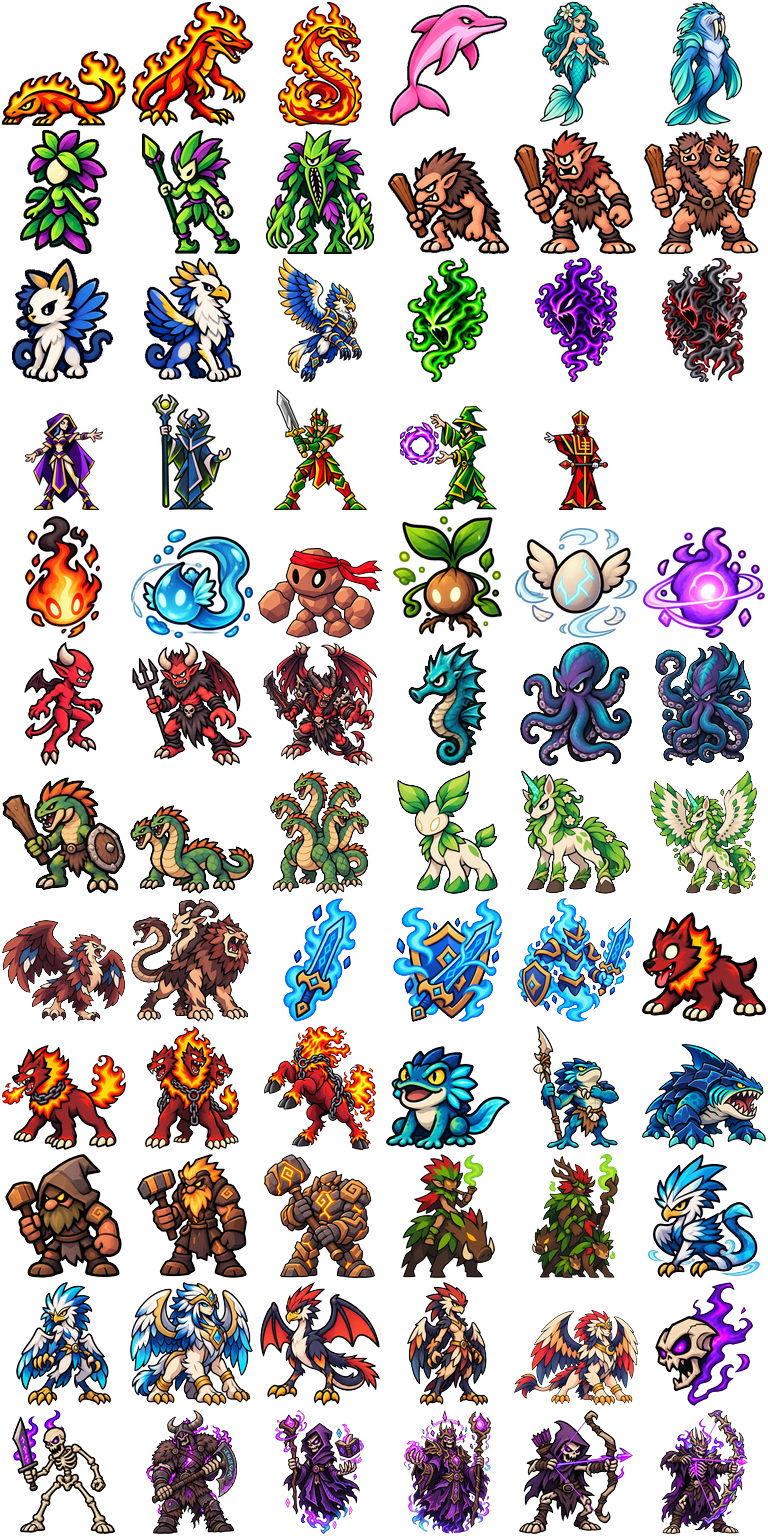
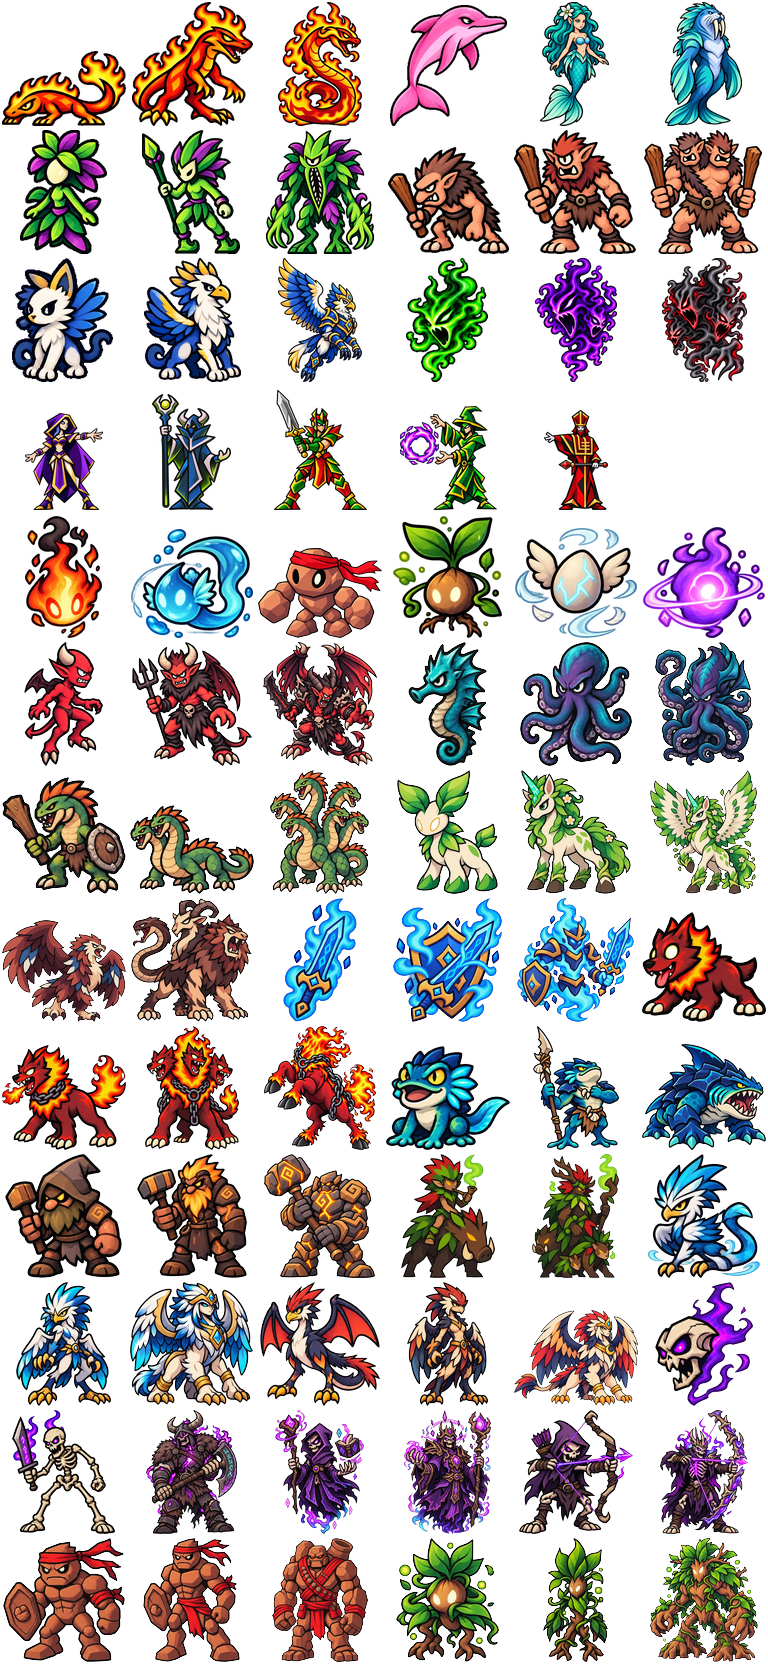
v1.47: novas linhas Argila → Barruco → Terracoto → Golem de Argila e Semente → Mandrago → Sentinela → Trent

diff --git a/index.html b/index.html
@@ -683,8 +683,8 @@ html:not(.paisagem) #rodape .alaD{grid-area:1/3;justify-content:flex-start}
         <li><b>Brasa:</b> evolui no Dia → Salamandra; à Noite → Diabrete; na Manhã ou no Entardecer → Filhote Infernal.</li>
         <li><b>Cão Infernal</b> (estágio 2 do Filhote Infernal): turno em que ataca sem sair do lugar (ou andando só 1 casa) conta para o Cerberus; turno em que galopa 3 ou mais casas conta para a Mula sem Cabeça.</li>
         <li><b>Girino:</b> terminou 3 ou mais turnos em terra firme (fora de construções), e mais em terra do que na água → Sapinho; senão, evolui com mais da metade da vida → Boto Rosa, ferido (metade ou menos) → Cavalo Marinho.</li>
-        <li><b>Argila:</b> turno parada (sem andar) vale 1 ponto e turno em pedreira ou montanha vale 3: com 4 pontos ou mais → Gnomo. Senão, apanhou mais do que bateu no estágio → Troll; bateu mais do que apanhou → Homem Lagarto.</li>
-        <li><b>Semente:</b> turnos parada ou na floresta → Dríade; andando 2+ casas ou na planície → Filhote da Selva.</li>
+        <li><b>Argila:</b> turno parada (sem andar) vale 1 ponto e turno em pedreira ou montanha vale 3: com 4 pontos ou mais → Gnomo. Terminou 2 ou mais turnos à beira d'água (ao lado de rio, mar ou pântano) → Barruco; se valer os dois, vence o que passou mais da meta. Senão, apanhou mais do que bateu no estágio → Troll; bateu mais do que apanhou → Homem Lagarto.</li>
+        <li><b>Semente:</b> evolui à Noite → Mandrago. Senão, turnos parada ou na floresta → Dríade; andando 2+ casas ou na planície → Filhote da Selva.</li>
         <li><b>Ovo Alado:</b> evolui ferido (metade da vida ou menos) → Cocatriz, da linhagem Solar na Manhã ou no Dia, ou Lunar no Entardecer ou à Noite; com mais da metade da vida → Gato Alado. A linhagem Solar luta melhor de dia (como Fogo e Planta) e a Lunar à noite (como Água e Arcano); o resto do Ar é neutro ao horário.</li>
         <li><b>Gato Alado:</b> turnos terminados numa construção sua contam para o Grifo; cada torre capturada vale 3 para o Anzu.</li>
         <li><b>Dríade</b> (estágio 1 da Semente): cada turno terminado ao lado de 2 ou mais criaturas aliadas (a manada) conta para a Caipora; com 2 ou mais → Caipora. Senão → Curupira.</li>
@@ -1183,6 +1183,15 @@ const ESP={
   lich:{nome:'Lich',cat:'vooBaixo',el:'arcano',hp:52,atk:25,def:4,mov:4,alc:1,forma:'olho',tier:3},
   esqArqueiro:{nome:'Esqueleto Arqueiro',cat:'terPeq',el:'arcano',hp:34,atk:13,def:2,mov:3,alc:2,xp:95,evo:'flecheiro',forma:'olho',tier:2},
   flecheiro:{nome:'Flecheiro Maldito',cat:'terPeq',el:'arcano',hp:50,atk:19,def:3,mov:4,alc:2,forma:'olho',tier:3},
+  // quarto ramo da Argila: o barro da beira d'água, moldado e queimado até virar um golem (ramo raro, um pouco mais forte).
+  barruco:{nome:'Barruco',cat:'terPeq',el:'terra',hp:46,atk:11,def:6,mov:3,alc:1,custo:60,xp:50,evo:'terracoto',forma:'pedra',tier:1},
+  terracoto:{nome:'Terracoto',cat:'terPeq',el:'terra',hp:66,atk:16,def:9,mov:3,alc:1,xp:95,evo:'golemArgila',forma:'pedra',tier:2},
+  golemArgila:{nome:'Golem de Argila',cat:'terGra',el:'terra',hp:104,atk:23,def:11,mov:3,alc:1,forma:'pedra',tier:3},
+  // terceiro ramo da Semente: a raiz que se arranca à noite e vira árvore andante. A Planta luta pior à noite,
+  // então é um ramo raro (~⅕) e um pouco mais forte: ataque alto no começo, muralha lenta no fim
+  mandrago:{nome:'Mandrago',cat:'terPeq',el:'planta',hp:38,atk:11,def:3,mov:3,alc:1,custo:40,xp:40,evo:'sentinela',forma:'folha',tier:1},
+  sentinela:{nome:'Sentinela',cat:'terPeq',el:'planta',hp:62,atk:15,def:6,mov:3,alc:1,xp:85,evo:'trent',forma:'folha',tier:2},
+  trent:{nome:'Trent',cat:'terGra',el:'planta',hp:102,atk:20,def:9,mov:3,alc:1,forma:'folha',tier:3},
 };
 // qual desenho do atlas a espécie usa (arte: opcional, para emprestar o desenho de outra espécie)
 function spr(esp){return (ESP[esp]&&ESP[esp].arte)||esp;}
@@ -1204,11 +1213,15 @@ const RAMOS={
       terra=tot-agua-turnosEm(u,'cast','fort','torre');
       return terra>=3&&terra>agua?[0,0,1]:u.hp>ESP[u.esp].hp/2?[1,0,0]:[0,1,0];}},
   // o artesão trabalha parado e cava a pedra: turno parada vale 1, turno em pedreira/montanha (a mina) vale 3; com 4+ vira Gnomo
-  // (ramo raro, ~¼). Senão: apanhou mais → Troll; bateu mais → Homem Lagarto
-  argila:{para:['cascalho','homemLagarto','gnomo'],dica:'Turno parada (sem andar) vale 1 ponto e turno em pedreira ou montanha vale 3: com 4 pontos ou mais → Gnomo. Senão, apanhou mais do que bateu neste estágio → Troll; bateu mais do que apanhou → Homem Lagarto.',
-    pontos:u=>(hist(u).parado||0)+3*turnosEm(u,'pedr','mont')>=4?[0,0,1]:[hist(u).sofrido||0,hist(u).feito||0,-1]},
-  semente:{para:['broto','filhote'],dica:'Turnos parada ou na floresta → Dríade; andando 2+ casas ou na planície → Filhote da Selva.',
-    pontos:u=>[hist(u).parado+turnosEm(u,'flor'),hist(u).correu+turnosEm(u,'plan')]},
+  // (ramo raro). O barro nasce na margem: 2+ turnos terminados à beira d'água (ao lado de rio, mar ou pântano) → Barruco (ramo raro).
+  // Os dois valendo: vence quem passou mais da sua meta. Senão: apanhou mais → Troll; bateu mais → Homem Lagarto
+  argila:{para:['cascalho','homemLagarto','gnomo','barruco'],dica:'Turno parada (sem andar) vale 1 ponto e turno em pedreira ou montanha vale 3: com 4 pontos ou mais → Gnomo. Terminou 2 ou mais turnos à beira d’água (ao lado de rio, mar ou pântano) → Barruco. Se valer os dois, vence o que passou mais da meta. Senão, apanhou mais do que bateu neste estágio → Troll; bateu mais do que apanhou → Homem Lagarto.',
+    pontos:u=>{const h=hist(u),g=(h.parado||0)+3*turnosEm(u,'pedr','mont'),b=h.beira||0;
+      if(g>=4||b>=2)return [-1,-1,g>=4?g/4:0,b>=2?b/2:0];
+      return [h.sofrido||0,h.feito||0,-1,-1];}},
+  // a mandrágora se arranca do chão à noite: evoluir à Noite → Mandrago (~⅕, como o Diabrete do Fogo)
+  semente:{para:['broto','filhote','mandrago'],dica:'Evoluir à Noite → Mandrago. Senão: turnos parada ou na floresta → Dríade; andando 2+ casas ou na planície → Filhote da Selva.',
+    pontos:u=>faseAtual().nome==='Noite'?[-1,-1,1]:[hist(u).parado+turnosEm(u,'flor'),hist(u).correu+turnosEm(u,'plan'),-1]},
   // a Caipora anda com a manada: turno terminado ao lado de 2+ criaturas aliadas conta para ela (ramo raro)
   broto:{para:['espinhal','caipora'],dica:'Cada turno terminado ao lado de 2 ou mais criaturas aliadas (a manada) conta para a Caipora; com 2 ou mais → Caipora. Senão → Curupira.',
     pontos:u=>(hist(u).bando||0)>=2?[0,1]:[1,0]},
@@ -1231,7 +1244,7 @@ const RAMOS={
     pontos:u=>{const m=hist(u).mortes||0;
       return m>=3?[0,1,0]:u.hp<=ESP[u.esp].hp*.4?[1,0,0]:m>=2?[0,1,0]:[0,0,1];}},
 };
-const novaHist=()=>({ter:{},passos:0,p0:0,parado:0,correu:0,torre:0,guarda:0,abates:0,feito:0,sofrido:0,mordidas:0,m0:0,firme:0,galope:0,bando:0,bando1:0,mortes:0});
+const novaHist=()=>({ter:{},passos:0,p0:0,parado:0,correu:0,torre:0,guarda:0,abates:0,feito:0,sofrido:0,mordidas:0,m0:0,firme:0,galope:0,bando:0,bando1:0,mortes:0,beira:0});
 function hist(u){return u.h||(u.h=novaHist());}
 const turnosEm=(u,...ts)=>ts.reduce((s,t)=>s+(hist(u).ter[t]||0),0);
 // ramos empatados no topo dos pontos (um só = esse vence; vários = sorteio entre eles)
@@ -1262,7 +1275,11 @@ function anotaTurno(u){
   if(ehConstrucao(t)&&J.dono[K(u.c,u.r)]===u.lado)h.guarda=(h.guarda||0)+1;
   const aliados=vizinhos(u.c,u.r).filter(([c,r])=>J.un.some(o=>o!==u&&o.lado===u.lado&&o.c===c&&o.r===r&&!ESP[o.esp].mestre)).length;
   if(aliados>=2)h.bando=(h.bando||0)+1;if(aliados>=1)h.bando1=(h.bando1||0)+1;
+  if(beiraDagua(u))h.beira=(h.beira||0)+1;
 }
+// terminou o turno em terra, com rio, mar ou pântano ao lado (ramo do Barruco)
+const AGUA_TER=['rio','mar','pant'];
+const beiraDagua=u=>!AGUA_TER.includes(terDe(u))&&vizinhos(u.c,u.r).some(([c,r])=>AGUA_TER.includes(J.ter[K(c,r)]));
 // ordem pensada para a grade de 3 colunas da invocação: cada fileira é um ciclo, cada um vence o da direita
 // e o da ponta direita vence o da esquerda (Fogo > Planta > Água > Fogo; Arcano > Ar > Terra > Arcano)
 const INVOCAVEIS=['brasa','semente','girino','essencia','ovoAlado','argila'];
@@ -1272,7 +1289,7 @@ const INVOCAVEIS=['brasa','semente','girino','essencia','ovoAlado','argila'];
 // As duas opções saem do histórico da partida (J.hj: o que o exército daquele mestre mais viveu até agora).
 // Escolhida, a forma fica fixa até o fim da partida.
 const EVO_CUSTO=200;
-const novaHj=()=>({atkDia:0,atkNoite:0,atkCresp:0,feito:0,sofrido:0,abates:0,torre:0,ter:{},parado:0,correu:0,saudavel:0,ferido:0,feridoDia:0,feridoNoite:0,perdas:0});
+const novaHj=()=>({atkDia:0,atkNoite:0,atkCresp:0,feito:0,sofrido:0,abates:0,torre:0,ter:{},parado:0,correu:0,saudavel:0,ferido:0,feridoDia:0,feridoNoite:0,perdas:0,beira:0});
 function hj(l){J.hj=J.hj||[];return J.hj[l]||(J.hj[l]=novaHj());}
 const contaHj=u=>u&&!u.elemental&&!ESP[u.esp].mestre&&u.dominado==null; // só as criaturas do próprio mestre
 const hjTer=(h,...ts)=>ts.reduce((s,t)=>s+(h.ter[t]||0),0);
@@ -1283,6 +1300,7 @@ function anotaJogo(u){
   let p=hu.passos-(u.pj||0);if(p<0)p=hu.passos;u.pj=hu.passos; // a história do estágio zera ao evoluir
   h.ter[t]=(h.ter[t]||0)+1;if(p===0)h.parado++;else if(p>=2)h.correu++;
   if(u.hp>ESP[u.esp].hp/2)h.saudavel++;else{h.ferido++;if(faseAtual().diurno)h.feridoDia++;else h.feridoNoite++;}
+  if(beiraDagua(u))h.beira=(h.beira||0)+1;
 }
 // pontos de cada ramo pelo histórico da partida, na ordem de RAMOS[base].para: [pontos, motivo]
 const EVO_HJ={
@@ -1290,9 +1308,9 @@ const EVO_HJ={
   girino:h=>{const tot=Object.values(h.ter).reduce((a,b)=>a+b,0),terra=tot-hjTer(h,'rio','mar','pant','cast','fort','torre');
     return [[h.saudavel*.4,`${h.saudavel} turnos terminados com mais da metade da vida`],[h.ferido,`${h.ferido} turnos terminados feridos`],[terra*.3,`${terra} turnos em terra firme`]];},
   argila:h=>{const mina=hjTer(h,'pedr','mont');
-    return [[h.sofrido/8,`${h.sofrido} de dano sofrido`],[h.feito/8,`${h.feito} de dano causado`],[(h.parado+3*mina)*.5,`${h.parado} turnos parados e ${mina} em pedreira ou montanha`]];},
+    return [[h.sofrido/8,`${h.sofrido} de dano sofrido`],[h.feito/8,`${h.feito} de dano causado`],[(h.parado+3*mina)*.5,`${h.parado} turnos parados e ${mina} em pedreira ou montanha`],[(h.beira||0)*.8,`${h.beira||0} turnos à beira d'água`]];},
   semente:h=>{const f=hjTer(h,'flor'),pl=hjTer(h,'plan');
-    return [[h.parado+f,`${h.parado} turnos parados e ${f} na floresta`],[h.correu+pl,`${h.correu} turnos correndo e ${pl} na planície`]];},
+    return [[h.parado+f,`${h.parado} turnos parados e ${f} na floresta`],[h.correu+pl,`${h.correu} turnos correndo e ${pl} na planície`],[h.atkNoite*.7,`${h.atkNoite} ataques à Noite`]];},
   ovoAlado:h=>[[h.saudavel*.4,`${h.saudavel} turnos terminados com mais da metade da vida`],[h.feridoDia,`${h.feridoDia} turnos feridos de dia`],[h.feridoNoite,`${h.feridoNoite} turnos feridos de noite`]],
   essencia:h=>[[h.parado*.3,`${h.parado} turnos de vigia (parados)`],[h.abates*2,`${h.abates} inimigos derrubados`],[(h.perdas||0)*1.5,`${h.perdas||0} criaturas suas derrubadas`]],
 };
@@ -2060,7 +2078,7 @@ function fundoMenu(cena='inicio'){
 }
 // cada cena tem seu ponto de interesse (torre, pavilhão, monólito): é ele que fica à vista quando a tela corta os lados
 const poeArte=(el,cena)=>{try{el.style.setProperty('--fundoMenu',`url(${fundoMenu(cena)})`);el.style.setProperty('--fundoX',{inicio:'50%',batalha:'46%',carregar:'30%'}[cena]);el.dataset.cena=cena;el.classList.add('arte');}catch(e){}};
-const VERSAO='1.46'; // aumentar 0.01 a cada atualização publicada
+const VERSAO='1.47'; // aumentar 0.01 a cada atualização publicada
 // tela inicial: menu principal com três botões (Jogar, Preparar Batalha, Carregar jogo)
 // inicio = aberta ao abrir o jogo (ou no fim da partida): sem "Voltar ao jogo"
 function abreConfig(inicio=false){
@@ -2113,7 +2131,8 @@ const OLHA_SPR={faisca:-1,brasador:1,pirolorde:1,gotim:1,corrente:1,abissal:1,br
   anzu:1,quimera:1,espada:1,armamentario:1,armadura:1,
   filhoteInf:-1,caoInfernal:-1,cerberus:-1,mulaSemCabeca:-1,sapinho:-1,bullywug:1,bullete:1,gnomo:-1,forjador:-1,golem:-1,caipora:1,hordaFloresta:1,
   cocatrizSol:-1,harpiaSol:-1,esfingeSol:1,cocatrizLua:-1,harpiaLua:1,esfingeLua:1,
-  caveira:-1,esqGuerreiro:-1,draugr:1,esqMago:1,lich:1,esqArqueiro:1,flecheiro:1};
+  caveira:-1,esqGuerreiro:-1,draugr:1,esqMago:1,lich:1,esqArqueiro:1,flecheiro:1,
+  barruco:-1,terracoto:-1,golemArgila:1,mandrago:1,sentinela:1,trent:1};
 // lado do tabuleiro: você começa à esquerda (olha para a direita), o Necromancer à direita (olha para a esquerda)
 function viraPara(u,x){const dx=x-centro(u.c,u.r)[0];if(Math.abs(dx)>1)u.dir=Math.sign(dx);}
 function criaUnidade(esp,lado,c,r){const u={id:nid++,esp,lado,c,r,dir:c<COLS/2?1:-1,hp:ESP[esp].hp,xp:0,movido:false,agiu:false};J.un.push(u);return u;}
@@ -4690,7 +4709,7 @@ function forma(f,x,y,s){
     ctx.lineTo(x+s*.32,y);ctx.lineTo(x+s*.65,y-s*.35);ctx.lineTo(x+s*.65,y+s*.4);ctx.closePath();ctx.fill();
   }
 }
-// ---------- Sprites (atlas 6x12 de células 128px; editar arte/atlas.png direto) ----------
+// ---------- Sprites (atlas 6x13 de células 128px; editar arte/atlas.png direto) ----------
 const ORDEM_SPR=['faisca','brasador','pirolorde','gotim','corrente','abissal','broto','espinhal','anciao',
   'cascalho','pedregulho','monolito','penugem','gaviao','tempestario','olho','vigia','oraculo',
   'arquimaga','barao','warlock','wizard','sorcerer',null, // 4ª linha do atlas: os mestres (Summoner, Necromancer, Warlock, Wizard, Sorcerer)
@@ -4701,9 +4720,10 @@ const ORDEM_SPR=['faisca','brasador','pirolorde','gotim','corrente','abissal','b
   'caoInfernal','cerberus','mulaSemCabeca','sapinho','bullywug','bullete', // 9ª linha: o fim da matilha do Fogo e os anfíbios da Água
   'gnomo','forjador','golem','caipora','hordaFloresta','cocatrizSol', // 10ª linha: os artesãos da Terra, a manada da Planta
   'harpiaSol','esfingeSol','cocatrizLua','harpiaLua','esfingeLua','caveira', // 11ª linha: as linhagens Solar e Lunar do Ar e a Caveira
-  'esqGuerreiro','draugr','esqMago','lich','esqArqueiro','flecheiro']; // 12ª linha: os esqueletos da Essência
-const ATL_LIN=12;
-const ATLAS=/*ATLAS*/"img/atlas.png?v=b8c6ce3f"/*FIM_ATLAS*/;
+  'esqGuerreiro','draugr','esqMago','lich','esqArqueiro','flecheiro', // 12ª linha: os esqueletos da Essência
+  'barruco','terracoto','golemArgila','mandrago','sentinela','trent']; // 13ª linha: o barro da Argila e as raízes da Semente
+const ATL_LIN=13;
+const ATLAS=/*ATLAS*/"img/atlas.png?v=60b4da36"/*FIM_ATLAS*/;
 const CEL=128;
 // estágio de evolução tem que ser legível só pelo tamanho: 0 mínimo, 1º pequeno, 2º médio, 3º grande (passa da borda do hexágono)
 const TAM_SPR=[21,28,40,56];
@@ -4832,13 +4852,13 @@ atlas.onload=()=>{
 if(ATLAS)atlas.src=ATLAS;
 // ----- monstros coloridos (arte/atlas_cor.png, mesmo layout do atlas; só as 18 criaturas) -----
 // usados onde a cor do time não importa: tela de combate e menu de invocação. Mestres continuam do atlas do time.
-const N_COR=72; // 18 monstros + 5 mestres + 1 vazio + 6 do estágio 0 + 17 dos segundos ramos + 4 da matilha do Fogo + 3 anfíbios + 3 artesãos + 2 da manada + 6 Solar/Lunar + 7 mortos-vivos
+const N_COR=78; // 18 monstros + 5 mestres + 1 vazio + 6 do estágio 0 + 17 dos segundos ramos + 4 da matilha do Fogo + 3 anfíbios + 3 artesãos + 2 da manada + 6 Solar/Lunar + 7 mortos-vivos + 3 do barro + 3 das raízes
 const atlasCorImg=new Image();let atlasCor=null;
 atlasCorImg.onload=()=>{
   FILA_ATLAS.push(()=>{atlasCor=contornar(atlasCorImg,4,'#07080c');if(J)atualiza();});
   if(FILA_ATLAS.length===1)rodaFilaAtlas();
 };
-atlasCorImg.src=/*ATLAS_COR*/"img/atlas-cor.png?v=71ac626c";
+atlasCorImg.src=/*ATLAS_COR*/"img/atlas-cor.png?v=ff73f718";
 const temCor=esp=>{const i=ORDEM_SPR.indexOf(spr(esp));return i>=0&&i<N_COR;};
 function iconeSpr(esp,t,lado=0){
   const i=ORDEM_SPR.indexOf(spr(esp));
